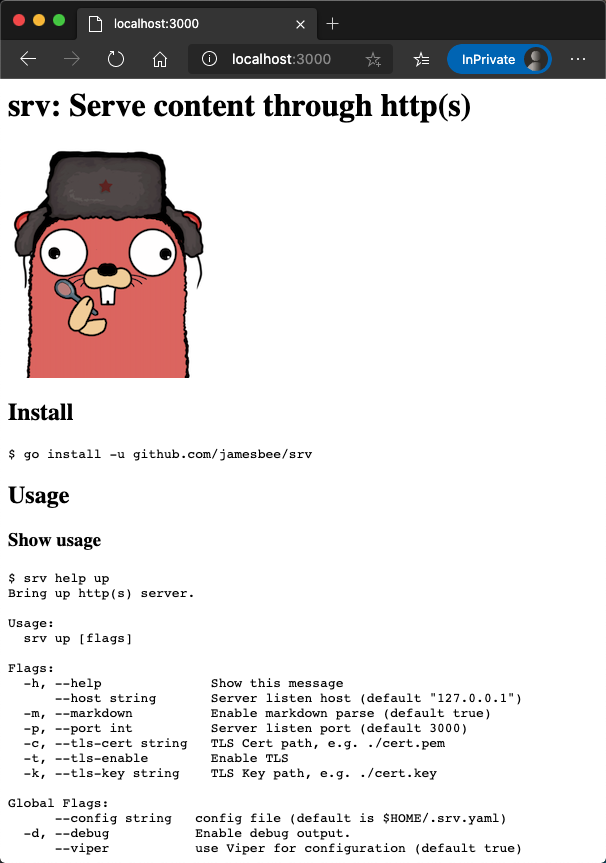
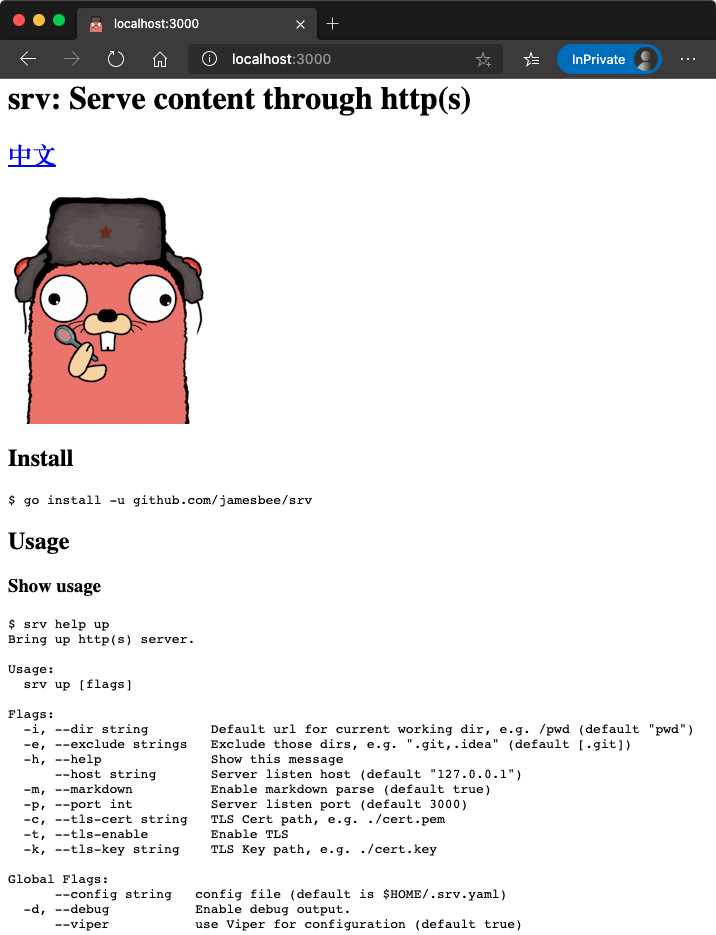
update readme

diff --git a/docs/README_cn.md b/docs/README_cn.md
@@ -31,6 +31,8 @@ Usage:
   srv up [flags]
 
 Flags:
+  -i, --dir string        Default url for current working dir, e.g. /pwd (default "pwd")
+  -e, --exclude strings   Exclude those dirs, e.g. ".git,.idea" (default [.git])
   -h, --help              Show this message
       --host string       Server listen host (default "127.0.0.1")
   -m, --markdown          Enable markdown parse (default true)
@@ -80,7 +82,7 @@ $ cd server && srv up
 $ srv up README.md
 ```
 
-> ![Screenshot.png](../assets/screenshot.png)
+> ![Screenshot.png](../assets/screenshot-cn.png)
 
 ### 发布文件
 

diff --git a/README.md b/README.md
@@ -22,6 +22,8 @@ Usage:
   srv up [flags]
 
 Flags:
+  -i, --dir string        Default url for current working dir, e.g. /pwd (default "pwd")
+  -e, --exclude strings   Exclude those dirs, e.g. ".git,.idea" (default [.git])
   -h, --help              Show this message
       --host string       Server listen host (default "127.0.0.1")
   -m, --markdown          Enable markdown parse (default true)
